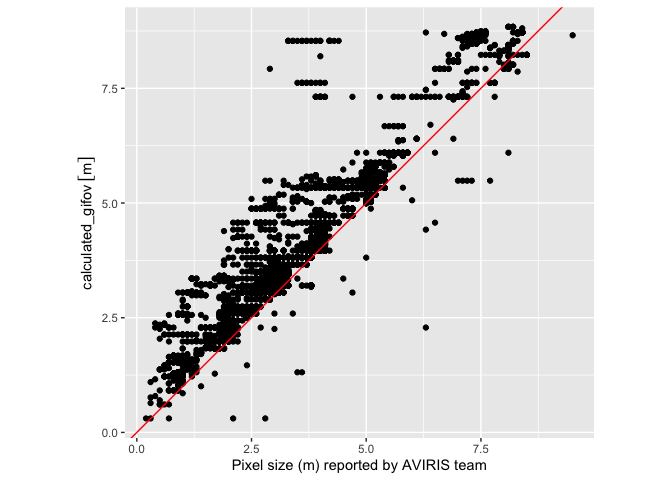
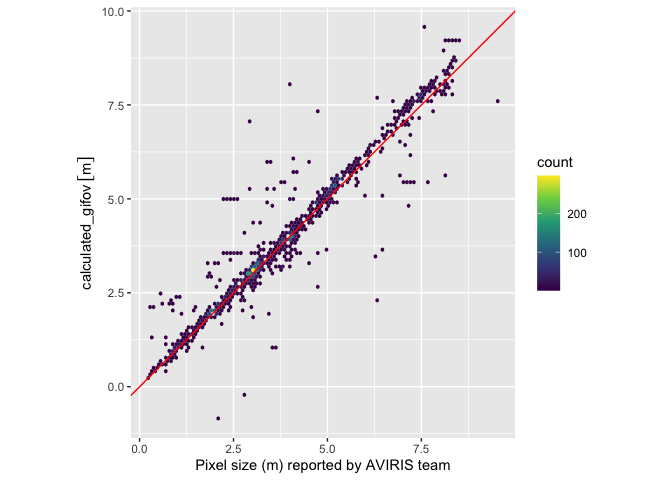
update flight geometry

diff --git a/FlightGeometry.md b/FlightGeometry.md
@@ -148,13 +148,24 @@ avirisng=googlesheets4::read_sheet("https://docs.google.com/spreadsheets/d/1UNgR
   filter(grepl("Alt",.$Comments)) # keep only rows that report the altitude
 
 avirisng$alt=set_units(as.numeric(gsub("kft.*$","",gsub("Alt = ","",avirisng$Comments)))*1000,"ft")
-avirisng$calculated_gifov=get_ground_fov(avirisng$alt,set_units(1,mrad)) %>% set_units(m)
+# subtract mean scene elevation
+avirisng$alt_over_ground=avirisng$alt-set_units(avirisng$`Mean Scene Elevation`,"m")
+avirisng$calculated_gifov=get_ground_fov(avirisng$alt_over_ground,set_units(1,mrad)) %>% set_units(m)
 
+avirisng$calculated_gifov_dif=avirisng$calculated_gifov-set_units(avirisng$`Pixel Size`,m)
 
+summary(avirisng$calculated_gifov_dif)
+```
+
+    ##      Min.   1st Qu.    Median      Mean   3rd Qu.      Max.      NA's 
+    ##   -4.0140   -0.0034    0.0910    0.6369    0.1717 2892.7071       131
+
+``` r
 avirisng %>% 
   filter(alt<set_units(70000,ft)) %>% 
   ggplot(aes(x=`Pixel Size`,y=calculated_gifov))+
-  geom_point()+
+  geom_hex(bins=100)+
+  scale_fill_viridis_c()+
   geom_abline(slope=1,intercept=0,col="red")+
   coord_equal()+
   xlab("Pixel size (m) reported by AVIRIS team")
